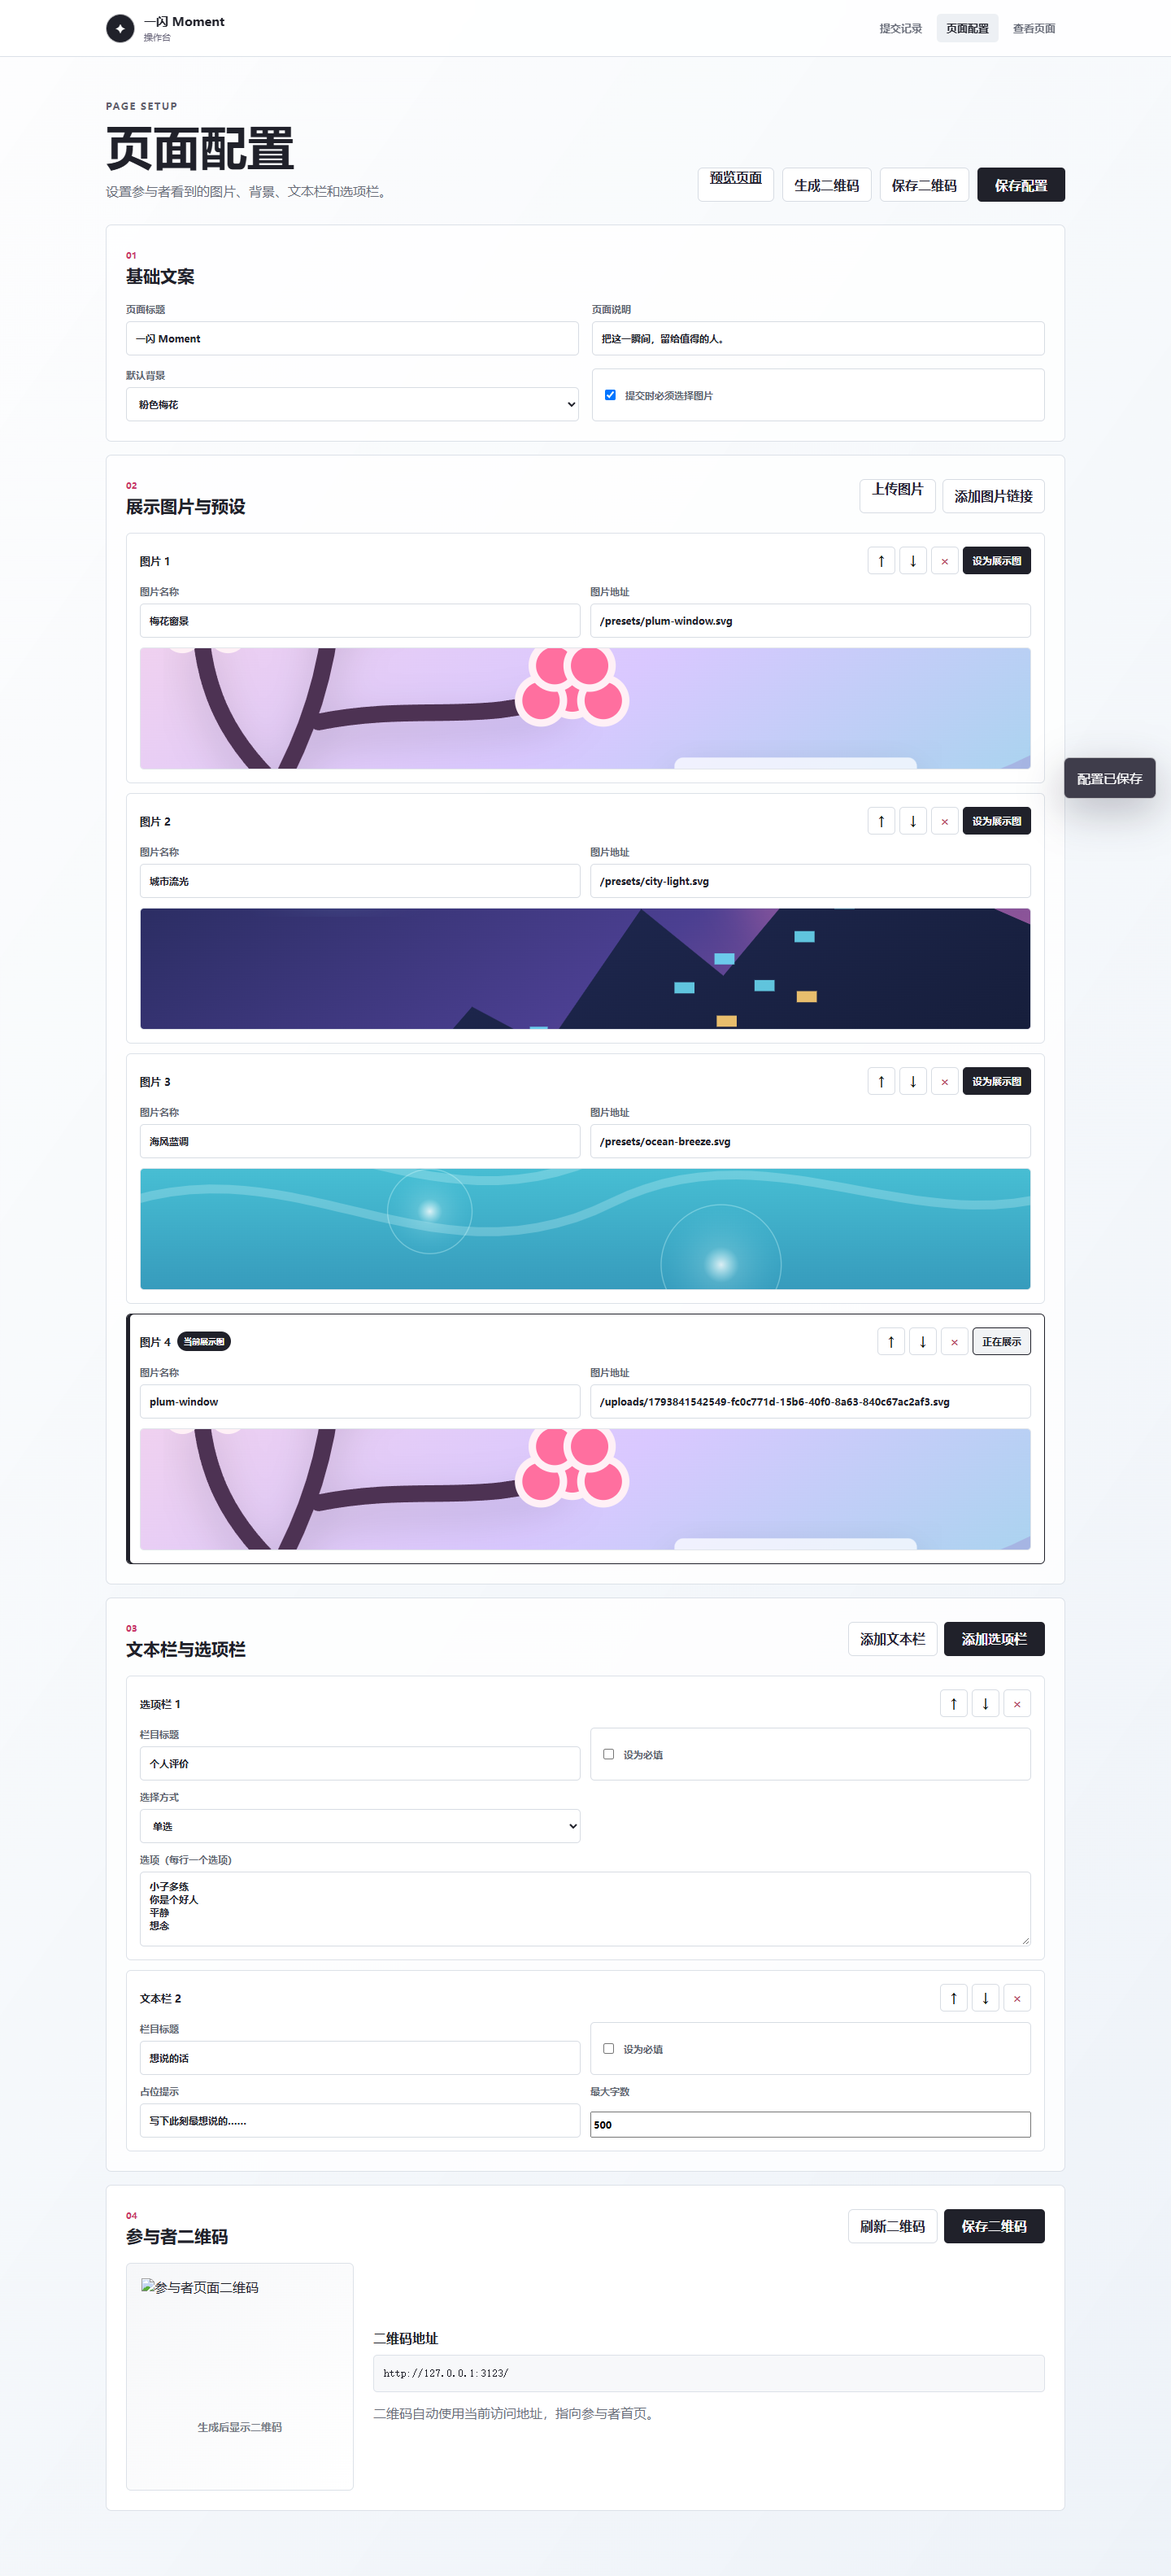
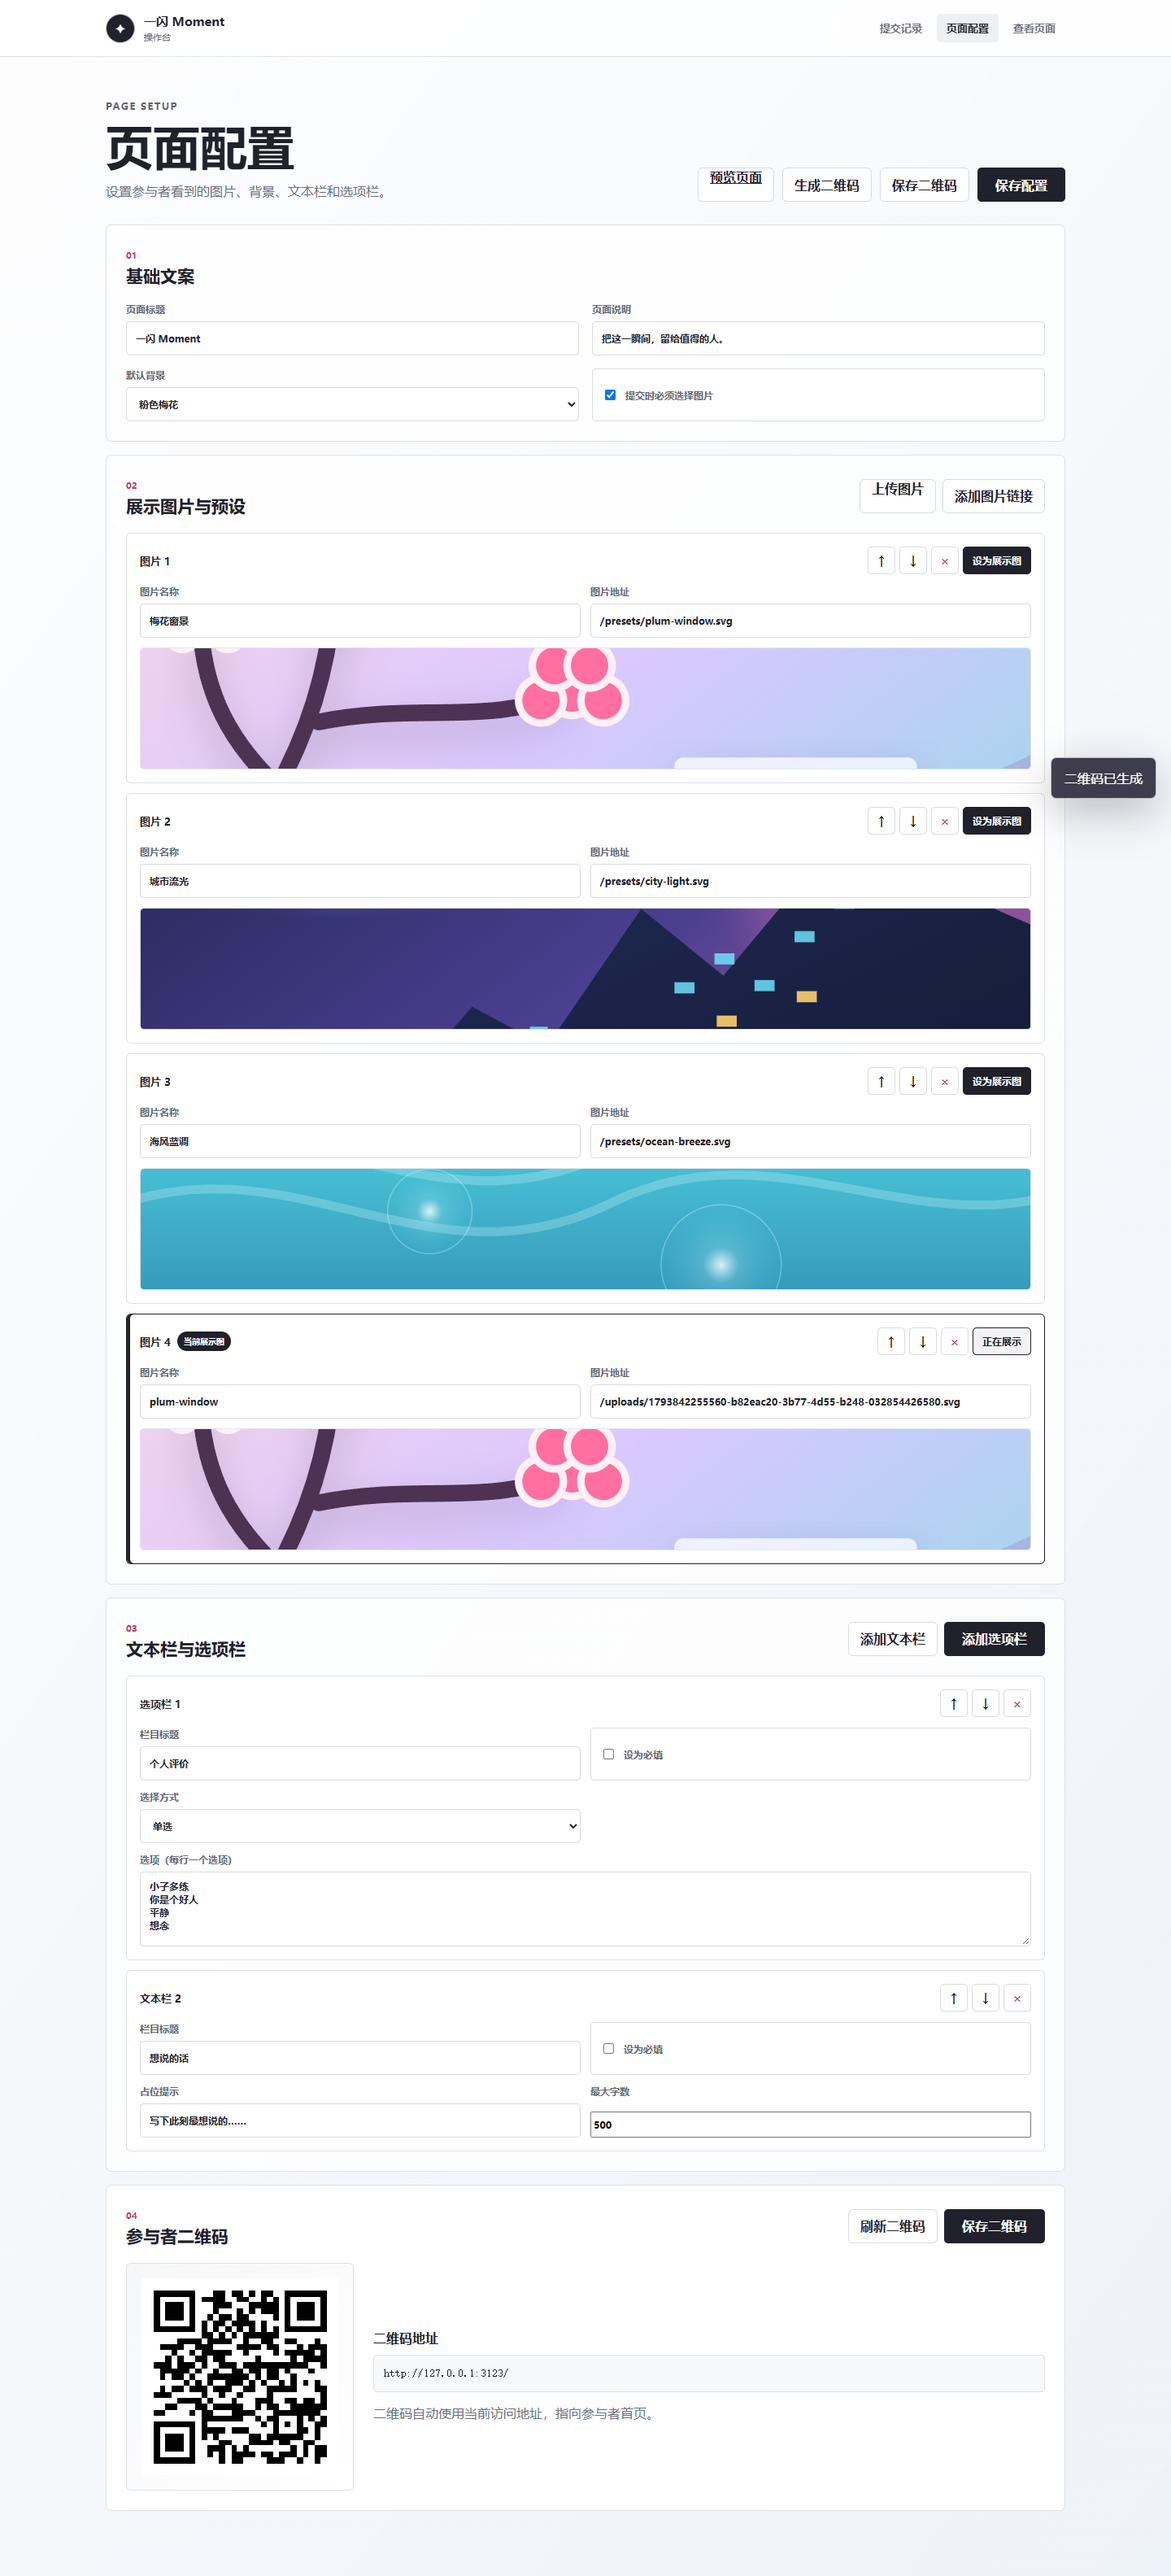
feat: simplify participant image and background controls

Changed region(s): [[0.125, 0.8664, 0.2812, 0.9593], [0.875, 0.2785, 0.9375, 0.3094]]

diff --git a/public/app.js b/public/app.js
@@ -3,16 +3,14 @@
 const state = {
   config: null,
   answers: {},
-  background: localStorage.getItem('yishan-background') || 'pink-plum'
+  background: 'pink-plum'
 };
 
 const elements = {
   displayImage: document.querySelector('#display-image'),
   displayImageFrame: document.querySelector('#display-image-frame'),
   displayImageEmpty: document.querySelector('#display-image-empty'),
-  displayImageLabel: document.querySelector('#display-image-label'),
   fields: document.querySelector('#fields-container'),
-  picker: document.querySelector('#background-picker'),
   submit: document.querySelector('#submit-button'),
   toast: document.querySelector('#toast'),
   title: document.querySelector('h1'),
@@ -38,7 +36,6 @@ function renderDisplayImage() {
     elements.displayImage.removeAttribute('src');
     elements.displayImage.hidden = true;
     elements.displayImageEmpty.hidden = false;
-    elements.displayImageLabel.textContent = '';
     elements.displayImageFrame.classList.add('empty');
     return;
   }
@@ -47,7 +44,6 @@ function renderDisplayImage() {
   elements.displayImage.alt = image.label || '展示图片';
   elements.displayImage.hidden = false;
   elements.displayImageEmpty.hidden = true;
-  elements.displayImageLabel.textContent = image.label || '展示图片';
   elements.displayImageFrame.classList.remove('empty');
 }
 
@@ -104,17 +100,6 @@ function renderFields() {
   }).join('');
 }
 
-function renderBackgroundPicker() {
-  const themes = window.YishanBackgrounds.THEMES;
-  elements.picker.innerHTML = Object.entries(themes).map(([key, theme]) => `
-    <button class="background-option ${state.background === key ? 'selected' : ''}" type="button" data-theme="${key}" aria-pressed="${state.background === key}">
-      <span class="background-swatch" style="background: linear-gradient(120deg, ${theme.colors[0]}, ${theme.colors[1]}, ${theme.colors[2]})"></span>
-      <strong>${safeText(theme.label)}</strong>
-      <small>${key === 'pink-plum' ? '梅花缓缓飘落' : '液态玻璃流动'}</small>
-    </button>
-  `).join('');
-}
-
 function collectAnswers() {
   const answers = {};
   state.config.fields.forEach((field) => {
@@ -133,9 +118,9 @@ function collectAnswers() {
 function renderParticipant() {
   elements.title.textContent = state.config.title;
   elements.description.textContent = state.config.description;
+  state.background = state.config.background || 'pink-plum';
   renderDisplayImage();
   renderFields();
-  renderBackgroundPicker();
 }
 
 async function loadConfig() {
@@ -164,15 +149,6 @@ function bindEvents() {
     });
     button.classList.add('selected');
     button.setAttribute('aria-checked', 'true');
-  });
-
-  elements.picker.addEventListener('click', (event) => {
-    const button = event.target.closest('[data-theme]');
-    if (!button) return;
-    state.background = button.dataset.theme;
-    localStorage.setItem('yishan-background', state.background);
-    window.yishanBackground.setTheme(state.background);
-    renderBackgroundPicker();
   });
 
   elements.submit.addEventListener('click', async () => {
@@ -206,11 +182,12 @@ function bindEvents() {
 }
 
 async function init() {
-  window.yishanBackground = window.YishanBackgrounds.initBackground(document.querySelector('#liquid-background'), state.background);
   bindEvents();
   try {
     await loadConfig();
+    window.yishanBackground = window.YishanBackgrounds.initBackground(document.querySelector('#liquid-background'), state.background);
   } catch (error) {
+    window.yishanBackground = window.YishanBackgrounds.initBackground(document.querySelector('#liquid-background'), state.background);
     showToast(error.message, 5000);
   }
 }

diff --git a/public/index.html b/public/index.html
@@ -45,10 +45,6 @@
           <strong>暂未设置展示图片</strong>
           <span>请操作人员在配置页面上传图片。</span>
         </div>
-        <div class="image-caption">
-          <span id="display-image-label"></span>
-          <span>完整图页 · 不裁剪</span>
-        </div>
       </div>
     </section>
 
@@ -64,20 +60,9 @@
       <div id="fields-container" class="fields-container"></div>
     </section>
 
-    <section class="background-section glass-card">
-      <div class="section-heading">
-        <div>
-          <span class="section-index">03</span>
-          <h2>挑一种氛围</h2>
-          <p>背景会像流动的玻璃一样持续变化。</p>
-        </div>
-      </div>
-      <div id="background-picker" class="background-picker" aria-label="背景选择"></div>
-    </section>
-
     <section class="submit-section glass-card">
       <div>
-        <span class="section-index">04</span>
+        <span class="section-index">03</span>
         <h2>准备好了吗？</h2>
         <p>确认内容后提交，操作人员就能看到你的心意。</p>
       </div>
@@ -94,5 +79,6 @@
   <script src="/app.js"></script>
 </body>
 </html>
+
 
 

diff --git a/tests/frontend-smoke.test.js b/tests/frontend-smoke.test.js
@@ -18,7 +18,8 @@ test('participant page includes display image, fields, background picker, and su
   assert.match(html, /id="display-image-frame"/);
   assert.match(html, /id="fields-container"/);
   assert.match(html, /id="submit-button"/);
-  assert.match(html, /id="background-picker"/);
+  assert.doesNotMatch(html, /id="background-picker"/);
+  assert.doesNotMatch(html, /class="image-caption"/);
   assert.match(html, /一闪 Moment/);
   assert.match(html, /favicon/);
   assert.ok(fs.existsSync(path.join(root, 'public', 'favicon.svg')));
@@ -50,8 +51,11 @@ test('participant app wires API calls and accessible form labels', () => {
   assert.match(js, /\/api\/submissions/);
   assert.match(js, /displayImageId/);
   assert.match(js, /aria-label/);
+  assert.doesNotMatch(js, /renderBackgroundPicker/);
+  assert.doesNotMatch(js, /data-theme/);
   assert.doesNotMatch(js, /FormData/);
 });
+
 
 
 

diff --git a/UI-TEST-REPORT.md b/UI-TEST-REPORT.md
@@ -1,4 +1,4 @@
-# 一闪 Moment 图片展示与二维码改进测试报告
+# 一闪 Moment 图片与背景界面简化测试报告
 
 测试时间：2026-11-05  
 测试方式：本地 Node.js 服务 + Microsoft Edge 无头浏览器自动化
@@ -9,30 +9,27 @@
 | --- | --- |
 | 参与者页面不显示图片上传控件 | 通过 |
 | 参与者页面不显示预设图片选择 | 通过 |
+| 参与者页面不显示图片下方说明栏 | 通过 |
+| 参与者页面不显示背景选择栏 | 通过 |
+| 背景由操作人员配置 | 通过 |
 | 操作人员上传展示图片 | 通过 |
 | 操作人员设置当前展示图 | 通过 |
-| 展示图唯一标记 | 通过 |
-| 提交记录保存当前展示图 | 通过 |
-| 320px 完整图片展示 | 通过，无横向溢出 |
-| 390px 完整图片展示 | 通过，无横向溢出 |
-| 768px 完整图片展示 | 通过，无横向溢出 |
-| 1440px 完整图片展示 | 通过，无横向溢出 |
-| 图片显示模式 | `object-fit: contain` |
-| 二维码自动生成 | 通过 |
-| 二维码地址 | `http://127.0.0.1:3123/` |
-| 二维码保存 | 通过，文件名 `yishan-moment-qr.png` |
-| 二维码识别 | 通过，可解码出完整地址 |
+| 图片桌面和移动端完整展示 | 通过 |
+| 320px / 390px / 768px / 1440px 无横向溢出 | 通过 |
+| 二维码生成与保存 | 通过 |
+| 二维码地址 | 指向参与者首页 |
 | 提交、管理筛选 | 通过 |
 | 浏览器控制台错误 | 无 |
 
-## 响应式检查
+## 参与者页面自动化检查
 
-| 宽度 | 页面 scrollWidth | 图片模式 | 图片控件 |
-| --- | --- | --- | --- |
-| 320px | 320px | contain | 0 |
-| 390px | 390px | contain | 0 |
-| 768px | 768px | contain | 0 |
-| 1440px | 1440px | contain | 0 |
+所有测试宽度均满足：
+
+- `uploadControls = 0`
+- `backgroundPickers = 0`
+- `imageCaptions = 0`
+- `objectFit = contain`
+- `scrollWidth = viewport width`
 
 ## 自动化产物
 
@@ -42,17 +39,8 @@
 - `participant-desktop.png`：1440px 参与者页面
 - `admin-qr.png`：操作台展示图与二维码界面
 - `admin-submissions.png`：提交记录界面
-- `yishan-moment-qr.png`：保存的 1024 × 1024 二维码
-
-## 截图资源检查
-
-- 320px 页面：320 × 2311，采样到 189 种颜色
-- 390px 页面：390 × 2331，采样到 214 种颜色
-- 768px 页面：768 × 1915，采样到 242 种颜色
-- 1440px 页面：1440 × 2256，采样到 233 种颜色
-- 操作台二维码界面：1440 × 3167，采样到 90 种颜色
-- 二维码 PNG：1024 × 1024，可被二维码识别器解码
+- `yishan-moment-qr.png`：1024 × 1024 二维码测试文件
 
 ## 测试结论
 
-参与者页面已改为纯展示模式，完整图片在桌面和移动端均不裁剪、不产生横向溢出。操作人员可以上传并指定展示图，生成和保存当前站点参与者首页二维码。自动化浏览器测试、二维码解码和功能测试全部通过。
+参与者页面现在只展示操作人员设置的完整图片、文本栏、选项栏和提交按钮；不再显示图片说明栏、图片上传控件或背景选择控件。操作人员仍可在操作台配置背景、上传图片、设置展示图并生成二维码。所有自动化浏览器测试通过。

diff --git a/README.md b/README.md
@@ -6,7 +6,7 @@
 
 - 操作人员上传并设置展示图片
 - 参与者页面完整展示图片，桌面和手机均不裁剪、不变形
-- 动态液态玻璃背景
+- 操作人员设置动态液态玻璃背景
 - 粉色梅花飘落背景
 - 蓝紫流光、暖金夕阳、深海气泡三种备用背景
 - 可配置文本栏
@@ -50,17 +50,17 @@ npm test
 2. 上传展示图片，或添加图片链接。
 3. 在图片编辑器中点击 **设为展示图**。
 4. 添加、删除或排序文本栏和选项栏。
-5. 点击 **保存配置**。
-6. 点击 **生成二维码**。
-7. 点击 **保存二维码**，下载 `yishan-moment-qr.png`。
+5. 选择参与者页面使用的背景。`n6. 点击 **保存配置**。
+7. 点击 **生成二维码**。
+8. 点击 **保存二维码**，下载 `yishan-moment-qr.png`。
 
-参与者页面不再提供图片上传或图片选择。参与者只能看到操作人员设置的图片，并填写文本和选项。
+参与者页面不提供图片上传、图片选择或背景选择。参与者只能看到操作人员设置好的图片和背景，并填写文本和选项。
 
 ## 图片展示规则
 
 - 展示图片使用 `object-fit: contain`。
 - 图片完整显示，不使用裁剪模式。
-- 图片按原始比例等比缩放。
+- 图片按原始比例等比缩放。`n- 图片下方不显示额外说明栏，只展示图片。
 - 图片区域在桌面端和移动端自适应，不产生横向溢出。
 - 操作人员可在配置页更换展示图片。
 
@@ -176,3 +176,4 @@ const port = Number(process.env.PORT) || 3000;
 - 增加管理员认证，保护 `/admin` 与 `/admin/edit`。
 - 增加二维码颜色、Logo、扫描次数统计和短链接。
 - 增加提交通知、批量删除、标签统计和高级筛选。
+
